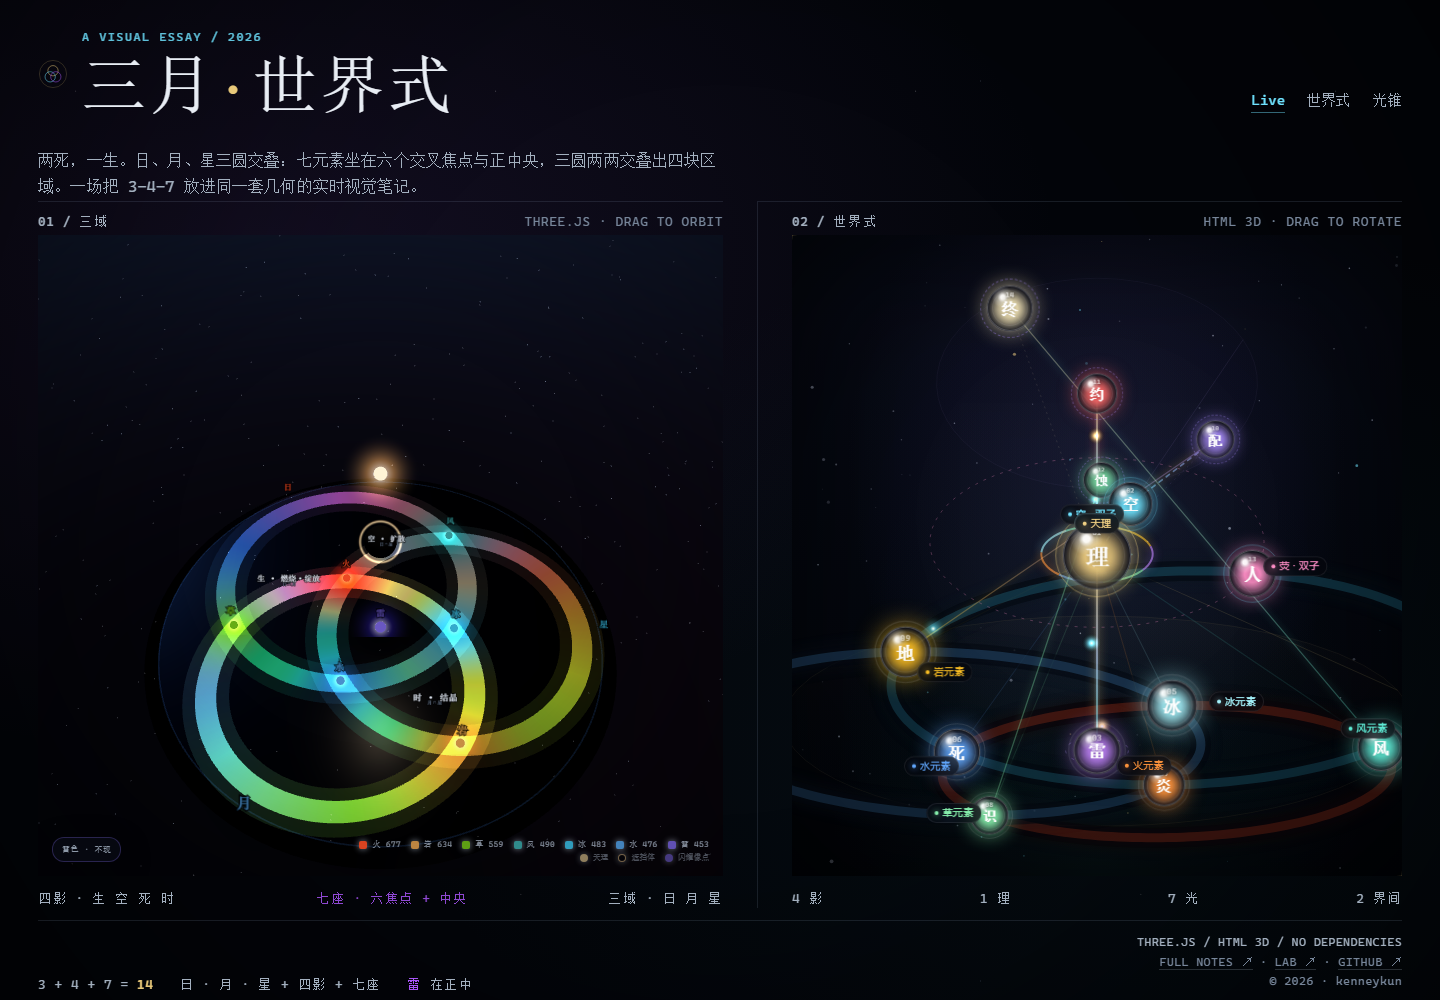
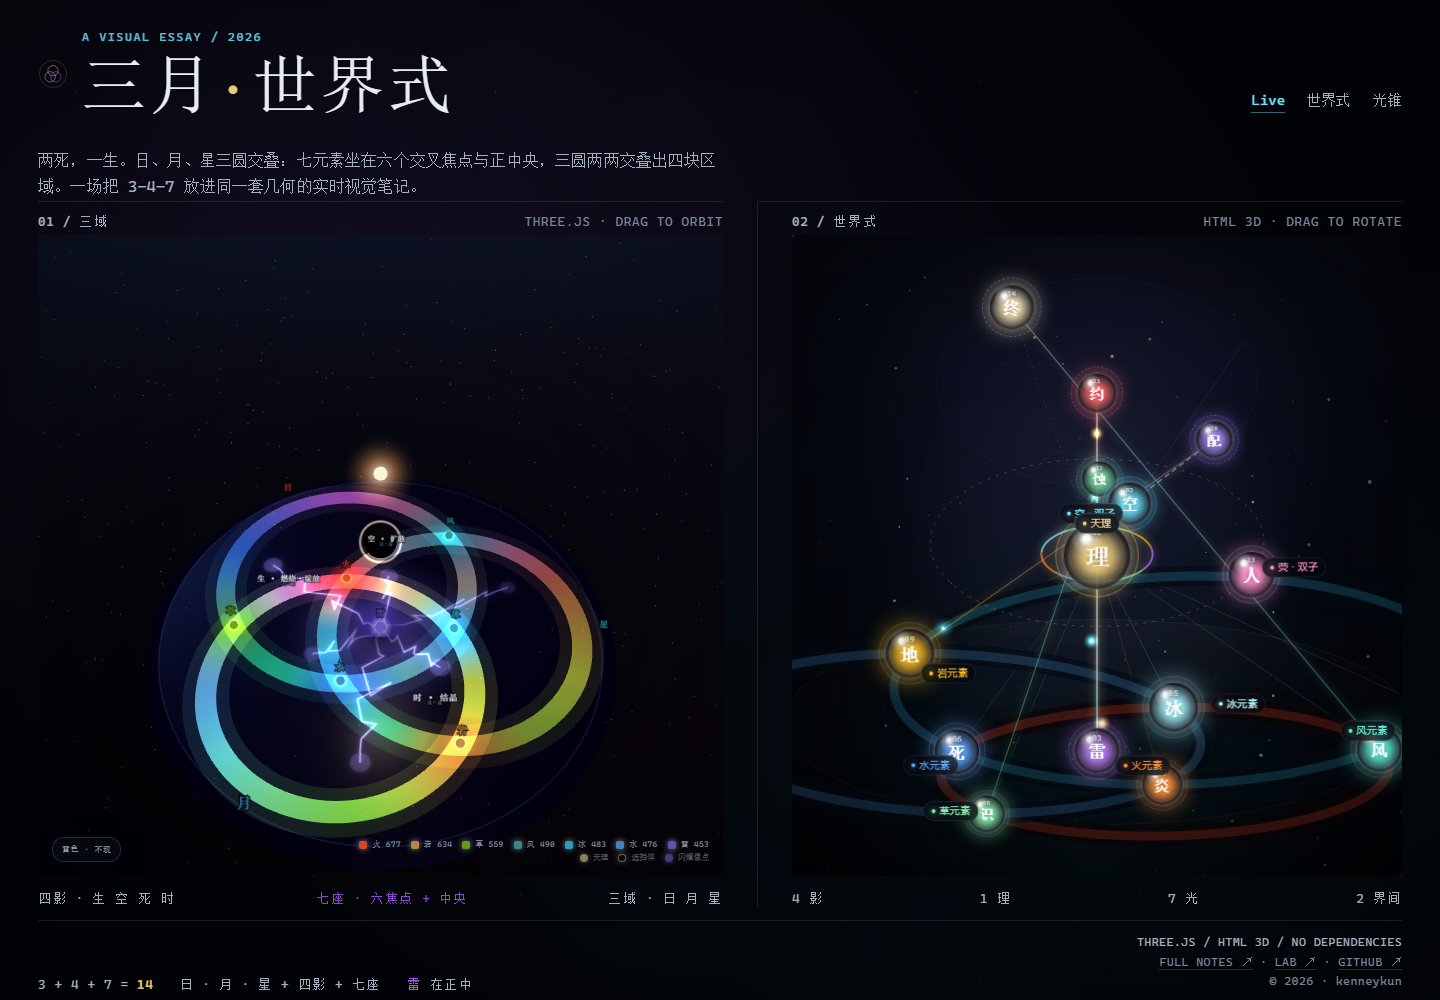
Turn the base plate into an electro plate
Electro reacts with everything, so the plate it sits on should read as live electro rather than inert stone. A canvas texture is mapped onto the plate surface and redrawn about fifteen times a second: a violet core glow at the centre where electro sits, plus six jittering bolts running from that centre out to each of the six focal seats, with a flickering corona at every seat. The plate material also picks up a faint violet emissive so the disc itself reads as charged rather than painted.

diff --git a/docs/prism_three_planb.html b/docs/prism_three_planb.html
@@ -4787,7 +4787,7 @@ window.M3 = {
   const plate = new M.Mesh(
     new M.CylinderGeometry(3.35, 3.58, 0.12, 96),
     new M.MeshPhysicalMaterial({
-      color: 0x0d1626, metalness: 0.45, roughness: 0.34,
+      color: 0x0d1626, metalness: 0.45, roughness: 0.34, emissive: 0x1a1036, emissiveIntensity: 0.55,
       envMapIntensity: 0.45, clearcoat: 0.25, clearcoatRoughness: 0.4,
     })
   );
@@ -4805,6 +4805,74 @@ window.M3 = {
   plateRim.position.y = PLANE_Y + 0.002;
   scene.add(plateRim);
 
+  /* 雷电盘：从中央（雷座）向六个焦点放射的电弧，画在画布上再叠到盘面 */
+  const boltCanvas = document.createElement('canvas');
+  boltCanvas.width = 640;
+  boltCanvas.height = 640;
+  const boltCtx = boltCanvas.getContext('2d');
+  const boltTex = new M.CanvasTexture(boltCanvas);
+  boltTex.colorSpace = M.SRGBColorSpace;
+  const boltPlate = new M.Mesh(
+    new M.RingGeometry(0.001, 3.32, 96),
+    new M.MeshBasicMaterial({
+      map: boltTex, transparent: true, blending: M.AdditiveBlending,
+      depthWrite: false, side: M.DoubleSide, toneMapped: false,
+    })
+  );
+  boltPlate.rotation.x = -Math.PI / 2;
+  boltPlate.position.y = PLANE_Y + 0.005;
+  scene.add(boltPlate);
+
+  const BOLT_SEATS = SEATS.filter((s) => s.key !== 'thunder');
+  let boltClock = -1;
+  function drawBolts(time) {
+    const g = boltCtx;
+    const W = boltCanvas.width;
+    const cxp = W / 2;
+    const cyp = W / 2;
+    const rp = (W / 2) * 0.99;
+    g.clearRect(0, 0, W, W);
+
+    const core = g.createRadialGradient(cxp, cyp, 0, cxp, cyp, rp * 0.46);
+    core.addColorStop(0, 'rgba(160,130,255,0.40)');
+    core.addColorStop(0.4, 'rgba(105,87,194,0.16)');
+    core.addColorStop(1, 'rgba(60,40,120,0)');
+    g.fillStyle = core;
+    g.beginPath();
+    g.arc(cxp, cyp, rp * 0.46, 0, Math.PI * 2);
+    g.fill();
+
+    BOLT_SEATS.forEach((s, i) => {
+      const flick = 0.40 + 0.60 * Math.abs(Math.sin(time * (1.6 + i * 0.41) + i * 1.7));
+      const x2 = cxp + (s.x * S / 3.32) * (W / 2) * 0.99;
+      const y2 = cyp + (-s.z * S / 3.32) * (W / 2) * 0.99;
+      const steps = 12;
+      g.beginPath();
+      g.moveTo(cxp, cyp);
+      for (let k = 1; k <= steps; k++) {
+        const u = k / steps;
+        const amp = (1 - Math.abs(u - 0.5) * 2) * 18;
+        const jx = (Math.sin(time * 7.1 + i * 3.3 + k * 2.1) * 0.6 + Math.sin(time * 13.7 + k * 1.9)) * amp;
+        const jy = (Math.cos(time * 6.3 + i * 2.1 + k * 1.7) * 0.6 + Math.cos(time * 11.3 + k * 2.3)) * amp;
+        g.lineTo(cxp + (x2 - cxp) * u + jx, cyp + (y2 - cyp) * u + jy);
+      }
+      g.strokeStyle = `rgba(176,148,255,${0.55 * flick})`;
+      g.lineWidth = 3.4;
+      g.shadowColor = 'rgba(140,110,255,.95)';
+      g.shadowBlur = 20;
+      g.stroke();
+      g.strokeStyle = `rgba(238,230,255,${0.85 * flick})`;
+      g.lineWidth = 1.2;
+      g.shadowBlur = 8;
+      g.stroke();
+
+      g.beginPath();
+      g.arc(x2, y2, 9 + 6 * flick, 0, Math.PI * 2);
+      g.fillStyle = `rgba(195,170,255,${0.20 * flick})`;
+      g.fill();
+    });
+    boltTex.needsUpdate = true;
+  }
   // 日食在底色盘上投下的暗斑（半径由阴影锥决定）
   const shadowBlob = new M.Mesh(
     new M.CircleGeometry(1, 72),
@@ -5669,6 +5737,11 @@ window.M3 = {
     dustFar.rotation.y += dt * 0.004;
     dustNear.rotation.y -= dt * 0.006;
     sunHalo.scale.setScalar(0.95 + Math.sin(clock.elapsedTime * 1.4) * 0.04);
+
+    if (clock.elapsedTime - boltClock > 0.06) {
+      boltClock = clock.elapsedTime;
+      drawBolts(clock.elapsedTime);
+    }
 
     renderer.render(scene, camera);
 

diff --git a/docs/index.html b/docs/index.html
@@ -179,7 +179,7 @@
     <section class="figure">
       <div class="fig-head"><b>01 / 三域</b><span>Three.js · drag to orbit</span></div>
       <div class="frame-wrap">
-        <iframe src="prism_three_planb.html?visual=1&v=domain5" title="三域结构：日 / 月 / 星三圆、七元素座位与四影交叠" loading="eager" scrolling="no"></iframe>
+        <iframe src="prism_three_planb.html?visual=1&v=domain6" title="三域结构：日 / 月 / 星三圆、七元素座位与四影交叠" loading="eager" scrolling="no"></iframe>
       </div>
       <div class="fig-foot">
         <span>四影 · 生 空 死 时</span>
@@ -191,7 +191,7 @@
     <section class="figure tree">
       <div class="fig-head"><b>02 / 世界式</b><span>HTML 3D · drag to rotate</span></div>
       <div class="frame-wrap">
-        <iframe src="world_formula.html?embed=1&v=domain5" title="世界式十四节点立体图" loading="eager" scrolling="no"></iframe>
+        <iframe src="world_formula.html?embed=1&v=domain6" title="世界式十四节点立体图" loading="eager" scrolling="no"></iframe>
       </div>
       <div class="fig-foot">
         <span>4 影</span>
